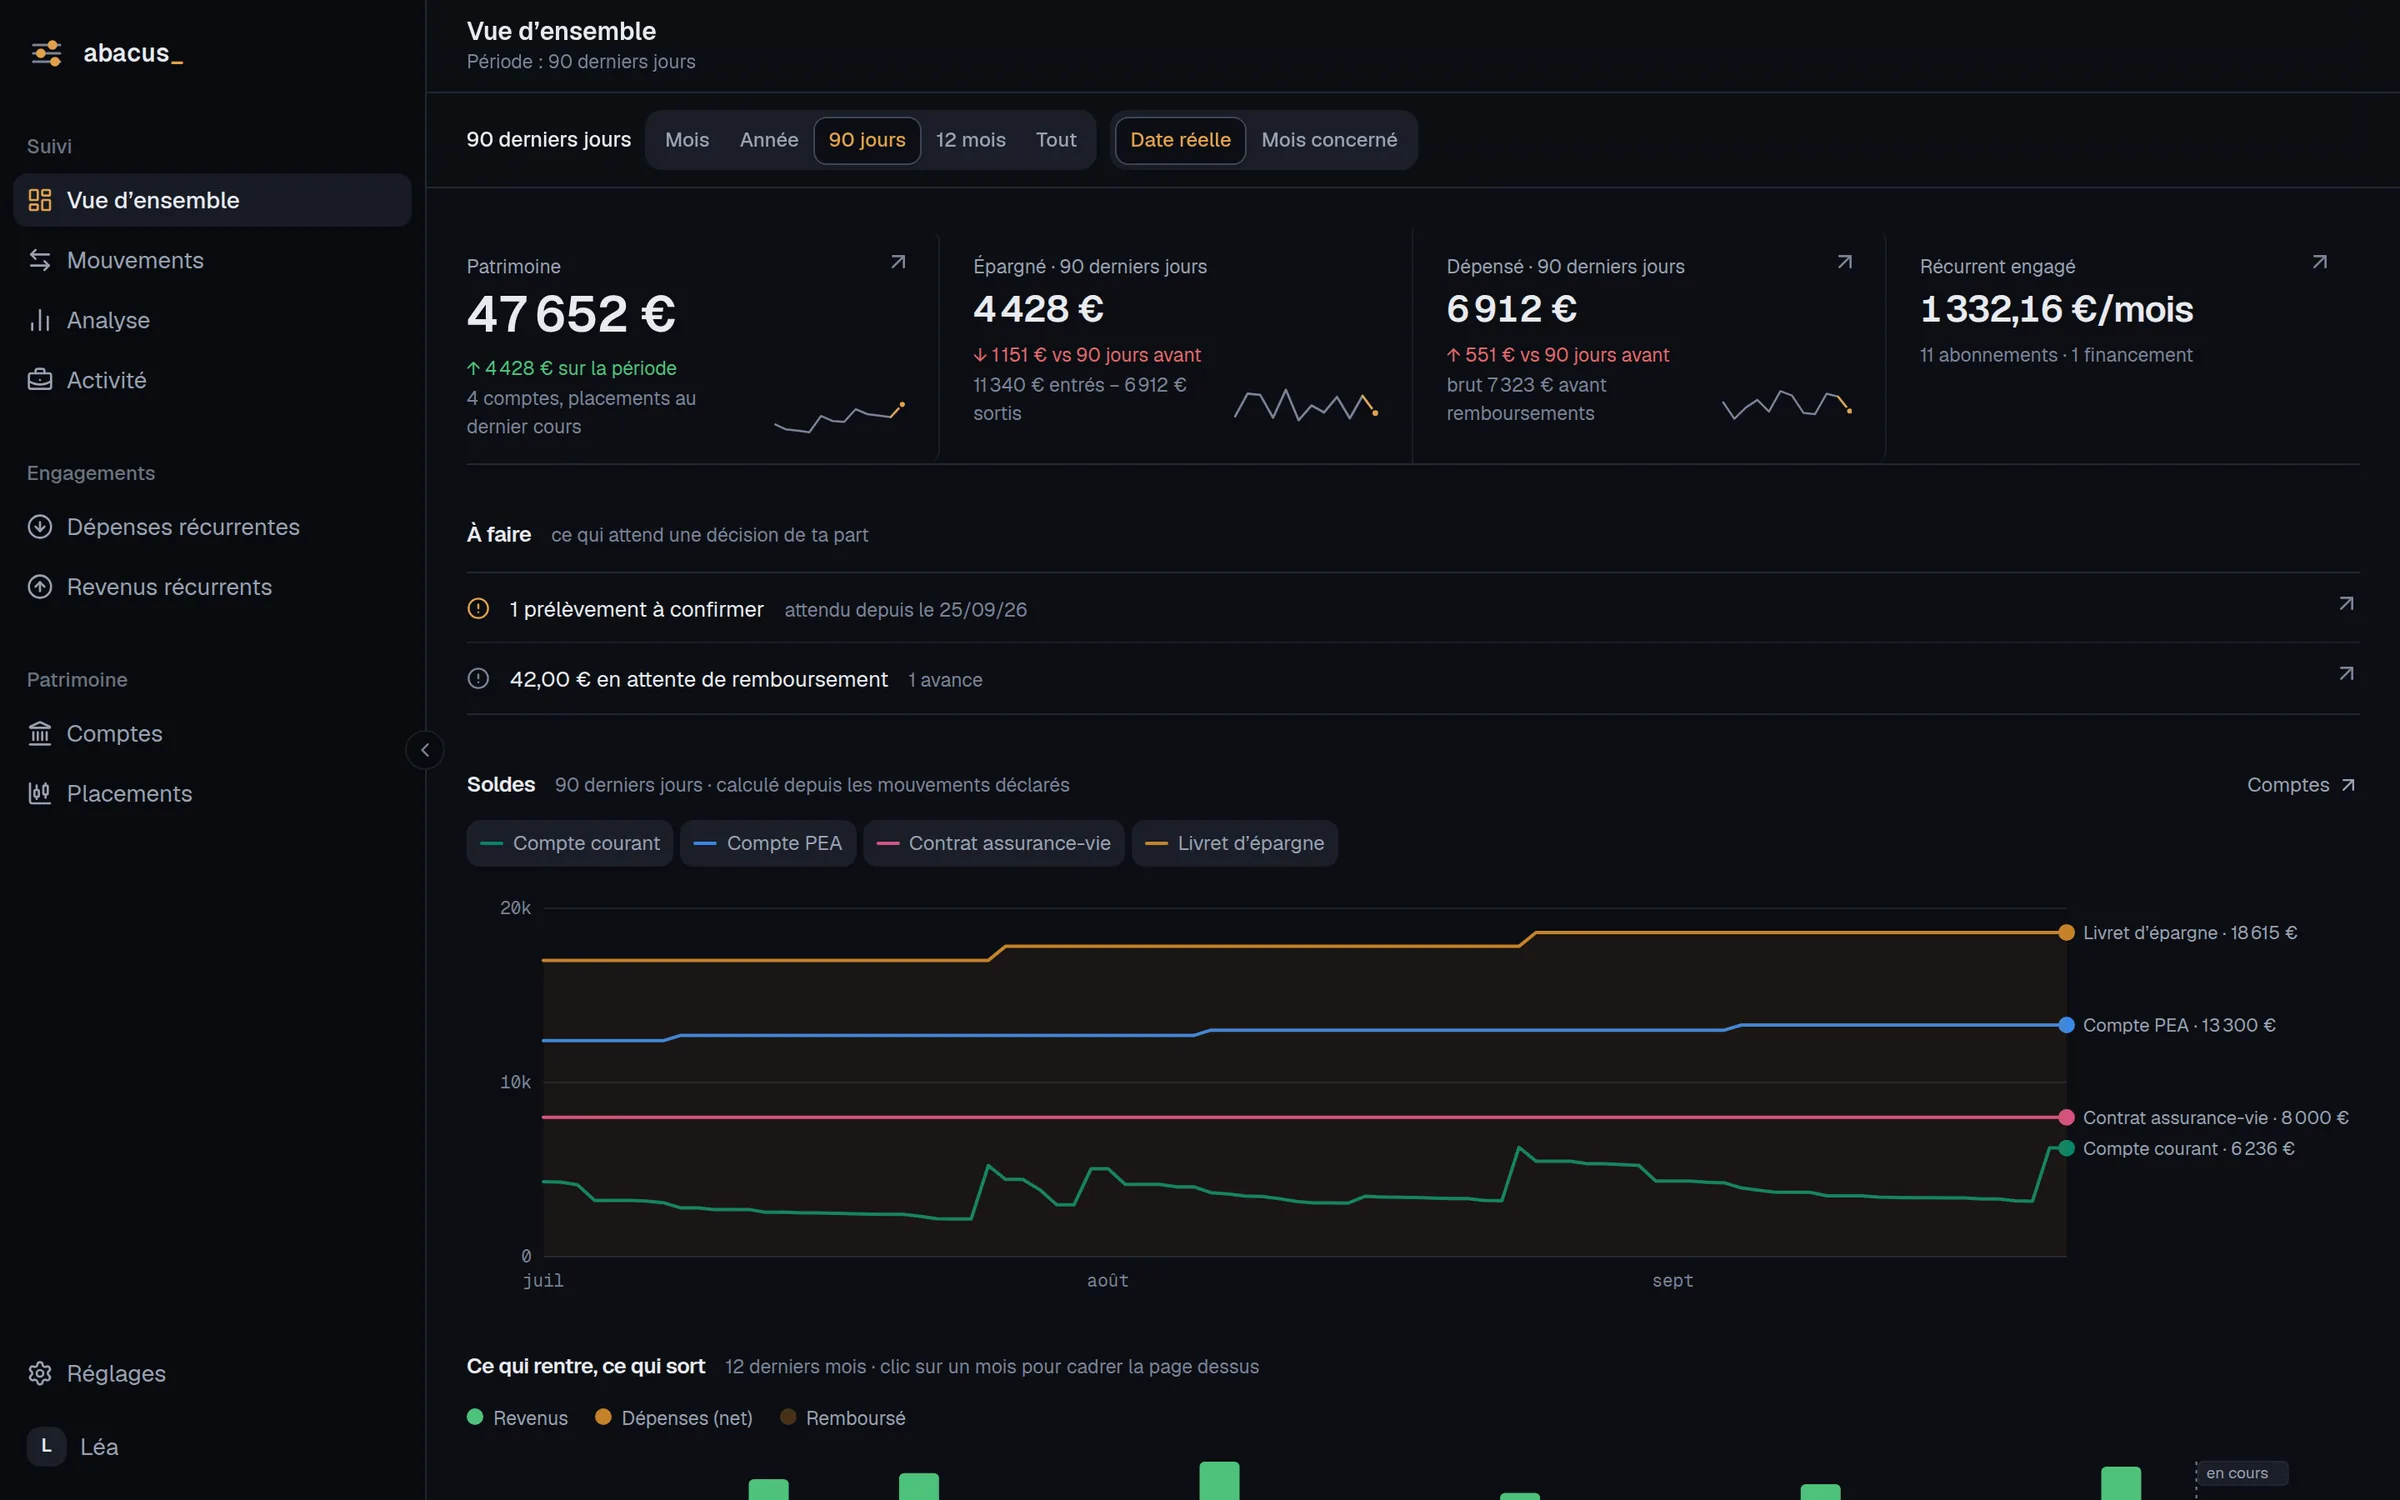
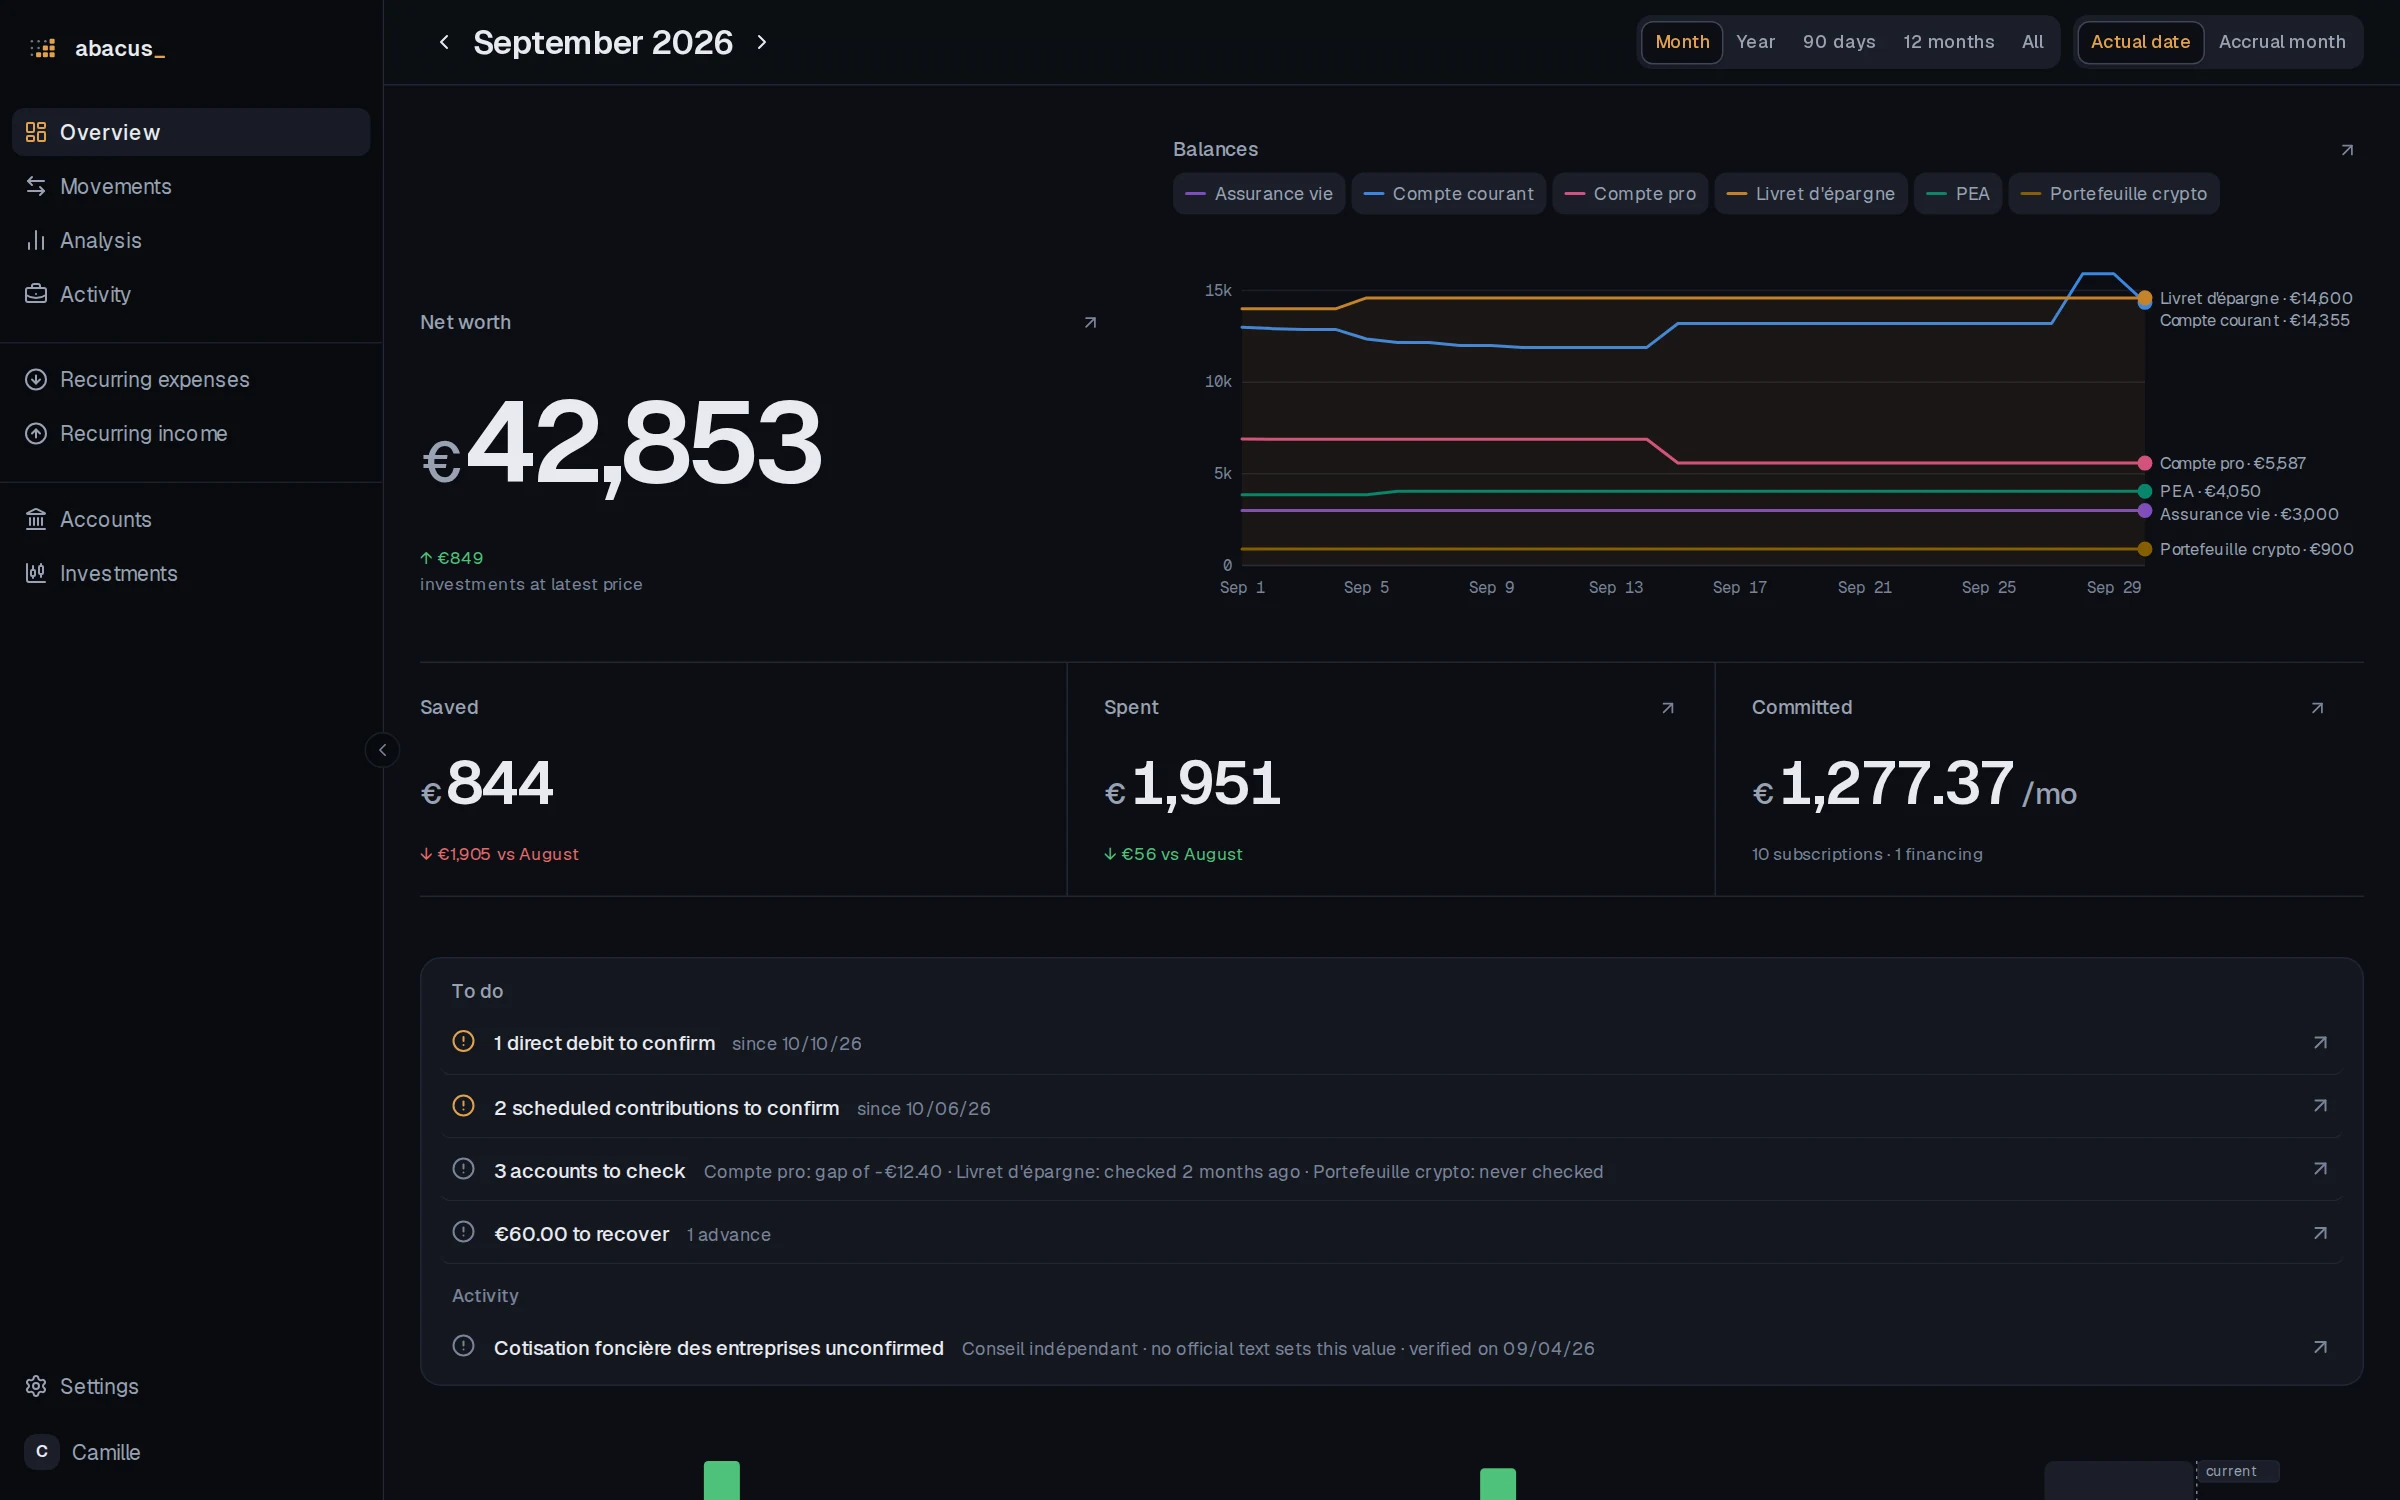
feat: refresh the Abacus screenshots and show them in French on French pages
Abacus changed a lot since the first captures and now speaks English as
well as French. The seven screenshots are retaken on its demo account:
an English set for the English and Spanish pages and the mockup, and a
French set for the French pages. The demo data stays in French in both.

The overview and analysis alt texts describe what those screens now
show (net worth, balances, to-dos; the 12-month money map). The capture
notes in AGENTS.md follow the new demo setup.

diff --git a/src/content/fr.ts b/src/content/fr.ts
@@ -197,8 +197,8 @@ export const fr: Content = {
             {
               layout: 'full',
               shot: {
-                image: images.abacusOverview,
-                alt: 'Vue d’ensemble d’Abacus en thème sombre, pour une personne fictive : soldes, engagements et activité récente.',
+                image: images.abacusOverviewFr,
+                alt: 'Vue d’ensemble d’Abacus en thème sombre, pour une personne fictive : patrimoine, soldes des comptes sur le mois et ce qui attend une décision.',
               },
             },
           ],
@@ -223,19 +223,19 @@ export const fr: Content = {
               layout: 'two-up',
               shots: [
                 {
-                  image: images.abacusMovements,
+                  image: images.abacusMovementsFr,
                   alt: 'Liste des mouvements avec dates, contreparties, catégories et montants, données fictives.',
                 },
                 {
-                  image: images.abacusAnalysis,
-                  alt: 'Vue d’analyse avec des graphiques de dépenses sur plusieurs mois, données fictives.',
+                  image: images.abacusAnalysisFr,
+                  alt: 'Vue d’analyse sur 12 mois : entrées et sorties par mois, puis les dépenses en carte de blocs, des grands postes jusqu’à chaque paiement, données fictives.',
                 },
               ],
             },
             {
               layout: 'full',
               shot: {
-                image: images.abacusInvestments,
+                image: images.abacusInvestmentsFr,
                 alt: 'Vue des placements avec les positions et leur valeur dans le temps, données fictives.',
               },
             },
@@ -258,9 +258,9 @@ export const fr: Content = {
             {
               layout: 'two-up',
               shots: [
-                { image: images.abacusRecurring, alt: 'Vue des dépenses récurrentes, données fictives.' },
+                { image: images.abacusRecurringFr, alt: 'Vue des dépenses récurrentes, données fictives.' },
                 {
-                  image: images.abacusDeclarePanel,
+                  image: images.abacusDeclarePanelFr,
                   alt: 'Panneau latéral ouvert pour déclarer un mouvement, données fictives.',
                 },
               ],
@@ -268,7 +268,7 @@ export const fr: Content = {
             {
               layout: 'full',
               shot: {
-                image: images.abacusAiConnect,
+                image: images.abacusAiConnectFr,
                 alt: 'Écran de connexion d’un agent IA à Abacus via MCP.',
               },
             },
@@ -282,9 +282,9 @@ export const fr: Content = {
         line: 'Une application de finances personnelles auto-hébergée à qui l’on parle : vous déclarez ce qui s’est passé, un agent IA l’enregistre via MCP.',
         facts: 'Produit personnel · Next.js, PostgreSQL, MCP',
         shots: [
-          { image: images.abacusOverview, caption: 'Vue d’ensemble, données fictives' },
-          { image: images.abacusAnalysis, caption: 'Analyse, données fictives' },
-          { image: images.abacusAiConnect, caption: 'Connecter un agent IA' },
+          { image: images.abacusOverviewFr, caption: 'Vue d’ensemble, données fictives' },
+          { image: images.abacusAnalysisFr, caption: 'Analyse, données fictives' },
+          { image: images.abacusAiConnectFr, caption: 'Connecter un agent IA' },
         ],
       },
     },

diff --git a/mockup/projects/abacus.html b/mockup/projects/abacus.html
@@ -93,7 +93,7 @@
 
     <div class="gallery">
       <figure class="frame" style="margin:0">
-        <img src="../assets/abacus/overview.webp" width="2400" height="1500" alt="Abacus overview in its dark theme, for a fictitious person: balances, commitments and recent activity.">
+        <img src="../assets/abacus/overview.webp" width="2400" height="1500" alt="Abacus overview in its dark theme, for a fictitious person: net worth, account balances over the month, and what is waiting for a decision.">
       </figure>
     </div>
   </div>
@@ -113,7 +113,7 @@
   <div class="wrap gallery">
     <div class="two-up">
       <figure class="frame" style="margin:0"><img src="../assets/abacus/movements.webp" width="2400" height="1500" loading="lazy" alt="Movements list with dates, counterparties, categories and amounts, fictitious data."></figure>
-      <figure class="frame" style="margin:0"><img src="../assets/abacus/analysis.webp" width="2400" height="1500" loading="lazy" alt="Analysis view with spending charts over several months, fictitious data."></figure>
+      <figure class="frame" style="margin:0"><img src="../assets/abacus/analysis.webp" width="2400" height="1500" loading="lazy" alt="Analysis view over 12 months: money in and out by month, then spending as a map of blocks, from the main groups down to each payment, fictitious data."></figure>
     </div>
     <figure class="frame" style="margin:0"><img src="../assets/abacus/investments.webp" width="2400" height="1500" loading="lazy" alt="Investments view with positions and their value over time, fictitious data."></figure>
   </div>

diff --git a/src/content/images.ts b/src/content/images.ts
@@ -1,7 +1,15 @@
-// Screenshots, shared by every language.
+// Screenshots, shared by every language. Abacus also speaks French: the French pages
+// show its French interface (the Fr set), the others its English one.
 import abacusAiConnect from '@/assets/abacus/ai-connect.webp'
 import abacusAnalysis from '@/assets/abacus/analysis.webp'
 import abacusDeclarePanel from '@/assets/abacus/declare-panel.webp'
+import abacusAiConnectFr from '@/assets/abacus/fr/ai-connect.webp'
+import abacusAnalysisFr from '@/assets/abacus/fr/analysis.webp'
+import abacusDeclarePanelFr from '@/assets/abacus/fr/declare-panel.webp'
+import abacusInvestmentsFr from '@/assets/abacus/fr/investments.webp'
+import abacusMovementsFr from '@/assets/abacus/fr/movements.webp'
+import abacusOverviewFr from '@/assets/abacus/fr/overview.webp'
+import abacusRecurringFr from '@/assets/abacus/fr/recurring.webp'
 import abacusInvestments from '@/assets/abacus/investments.webp'
 import abacusMovements from '@/assets/abacus/movements.webp'
 import abacusOverview from '@/assets/abacus/overview.webp'
@@ -24,6 +32,13 @@ export const images = {
   abacusMovements,
   abacusOverview,
   abacusRecurring,
+  abacusAiConnectFr,
+  abacusAnalysisFr,
+  abacusDeclarePanelFr,
+  abacusInvestmentsFr,
+  abacusMovementsFr,
+  abacusOverviewFr,
+  abacusRecurringFr,
   estuaireExpertise,
   estuaireHome,
   estuaireHomeMobile,

diff --git a/src/content/es.ts b/src/content/es.ts
@@ -197,7 +197,7 @@ export const es: Content = {
               layout: 'full',
               shot: {
                 image: images.abacusOverview,
-                alt: 'Vista general de Abacus en tema oscuro, para una persona ficticia: saldos, compromisos y actividad reciente.',
+                alt: 'Vista general de Abacus en tema oscuro, para una persona ficticia: patrimonio, saldos de las cuentas a lo largo del mes y lo que espera una decisión.',
               },
             },
           ],
@@ -227,7 +227,7 @@ export const es: Content = {
                 },
                 {
                   image: images.abacusAnalysis,
-                  alt: 'Vista de análisis con gráficos de gastos de varios meses, datos ficticios.',
+                  alt: 'Vista de análisis de 12 meses: entradas y salidas por mes, y luego los gastos como un mapa de bloques, de los grandes grupos hasta cada pago, datos ficticios.',
                 },
               ],
             },

diff --git a/src/content/en.ts b/src/content/en.ts
@@ -193,7 +193,7 @@ export const en: Content = {
               layout: 'full',
               shot: {
                 image: images.abacusOverview,
-                alt: 'Abacus overview in its dark theme, for a fictitious person: balances, commitments and recent activity.',
+                alt: 'Abacus overview in its dark theme, for a fictitious person: net worth, account balances over the month, and what is waiting for a decision.',
               },
             },
           ],
@@ -223,7 +223,7 @@ export const en: Content = {
                 },
                 {
                   image: images.abacusAnalysis,
-                  alt: 'Analysis view with spending charts over several months, fictitious data.',
+                  alt: 'Analysis view over 12 months: money in and out by month, then spending as a map of blocks, from the main groups down to each payment, fictitious data.',
                 },
               ],
             },

diff --git a/AGENTS.md b/AGENTS.md
@@ -127,10 +127,14 @@ applications. En local, `provision/.env` fournit les deux valeurs, et `nr plan` 
 
 ## Refaire des captures
 
-- **Abacus** : instance de démonstration, worktree `~/dev/pro/abacus/demo-captures`,
-  `demo/run.sh` (port 3947), `demo/reset.sh` pour reconstruire la base
-  `abacus_demo_portfolio`. Identifiant `lea@demo.abacus.example`, mot de passe dans
-  `demo/seed.ts`. Ne jamais lire la base `abacus`, qui contient les vraies données de
+- **Abacus** : compte de démo du dépôt Abacus (`~/dev/lab/abacus`), décrit dans son
+  `AGENTS.md`. Un worktree `demo-captures` (`wt switch -c demo-captures`) reçoit sa base,
+  le jeu de démo et son serveur. Dans son `apps/web/.env.local`, `MCP_URL` pointe vers
+  `https://abacus-mcp.example.com/mcp`, sinon l'écran « Connect an AI » affiche
+  l'adresse locale. L'interface suit la langue du navigateur, les données de démo restent
+  en français : un jeu en anglais (`src/assets/abacus/`, copié dans `mockup/`) et un en
+  français (`src/assets/abacus/fr/`, pour les pages françaises), 1600×1000 à densité 1.5,
+  thème sombre. Ne jamais lire la base `abacus`, qui contient les vraies données de
   Pierre, ni appeler le connecteur MCP `abacus`.
 - **estuaire.fr** : fenêtre de 1920×1200 à densité 1.5 (voir Pièges), attendre la fin du
   carrousel d'accueil (8 s environ), faire défiler la page avant une capture pleine page
